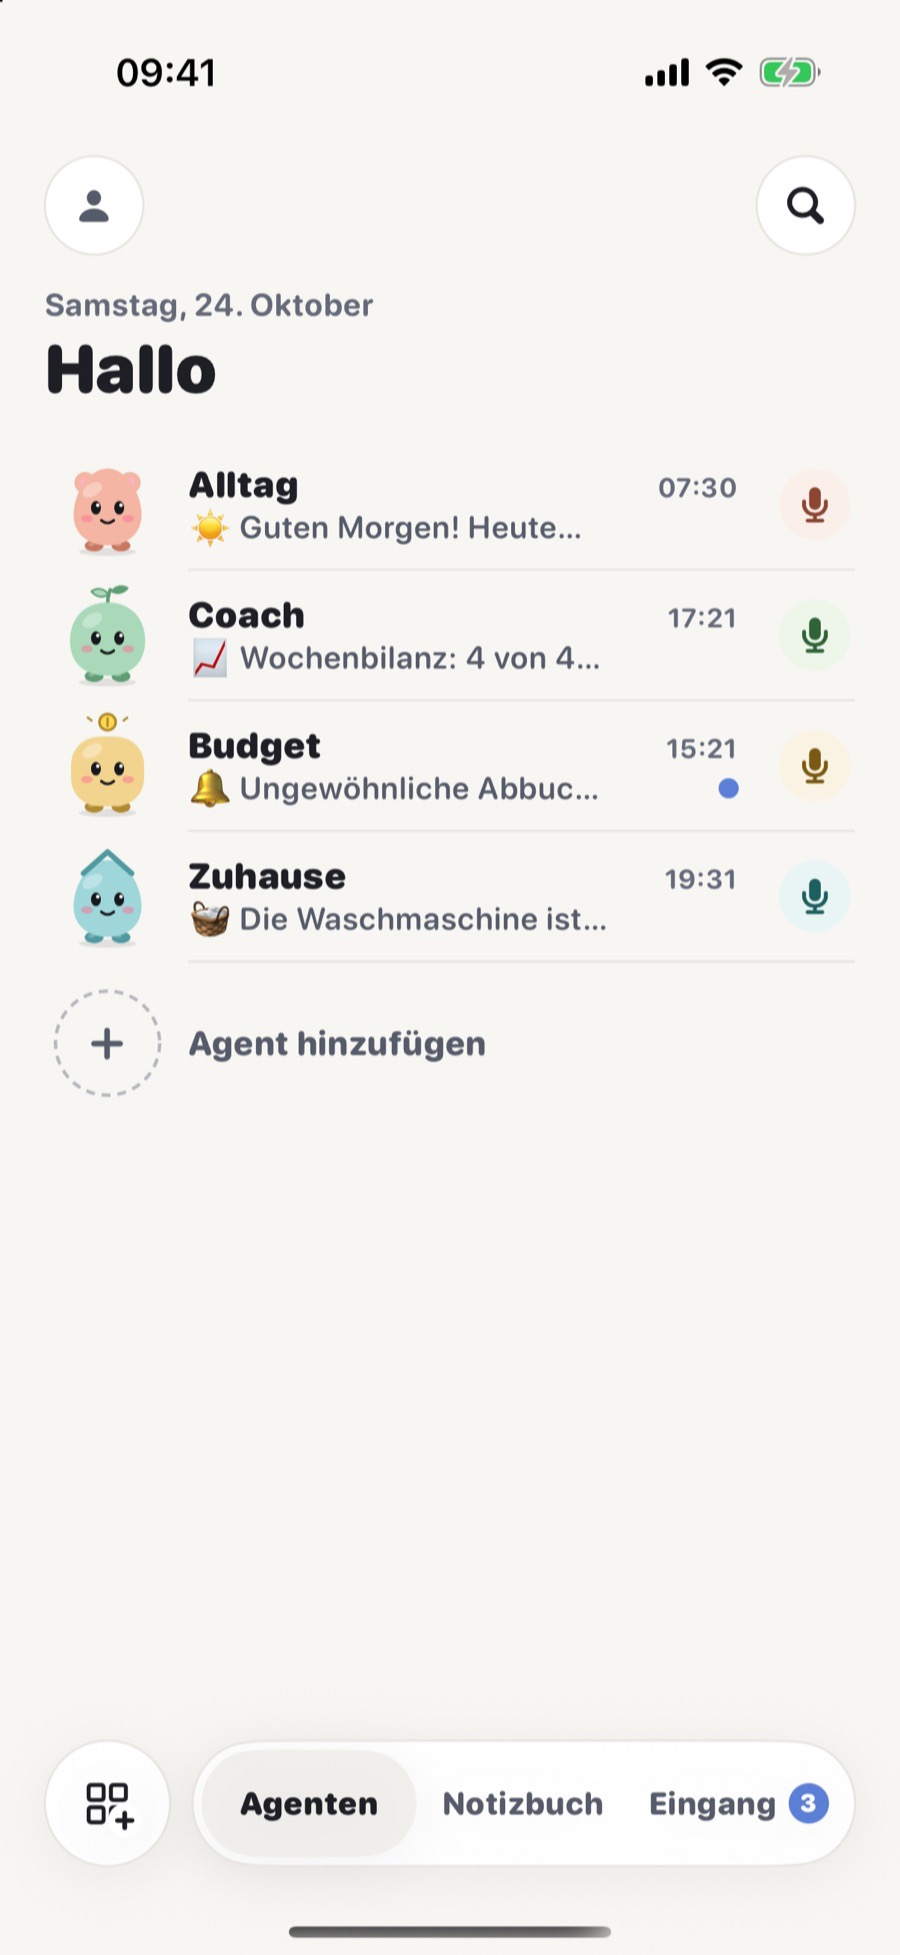
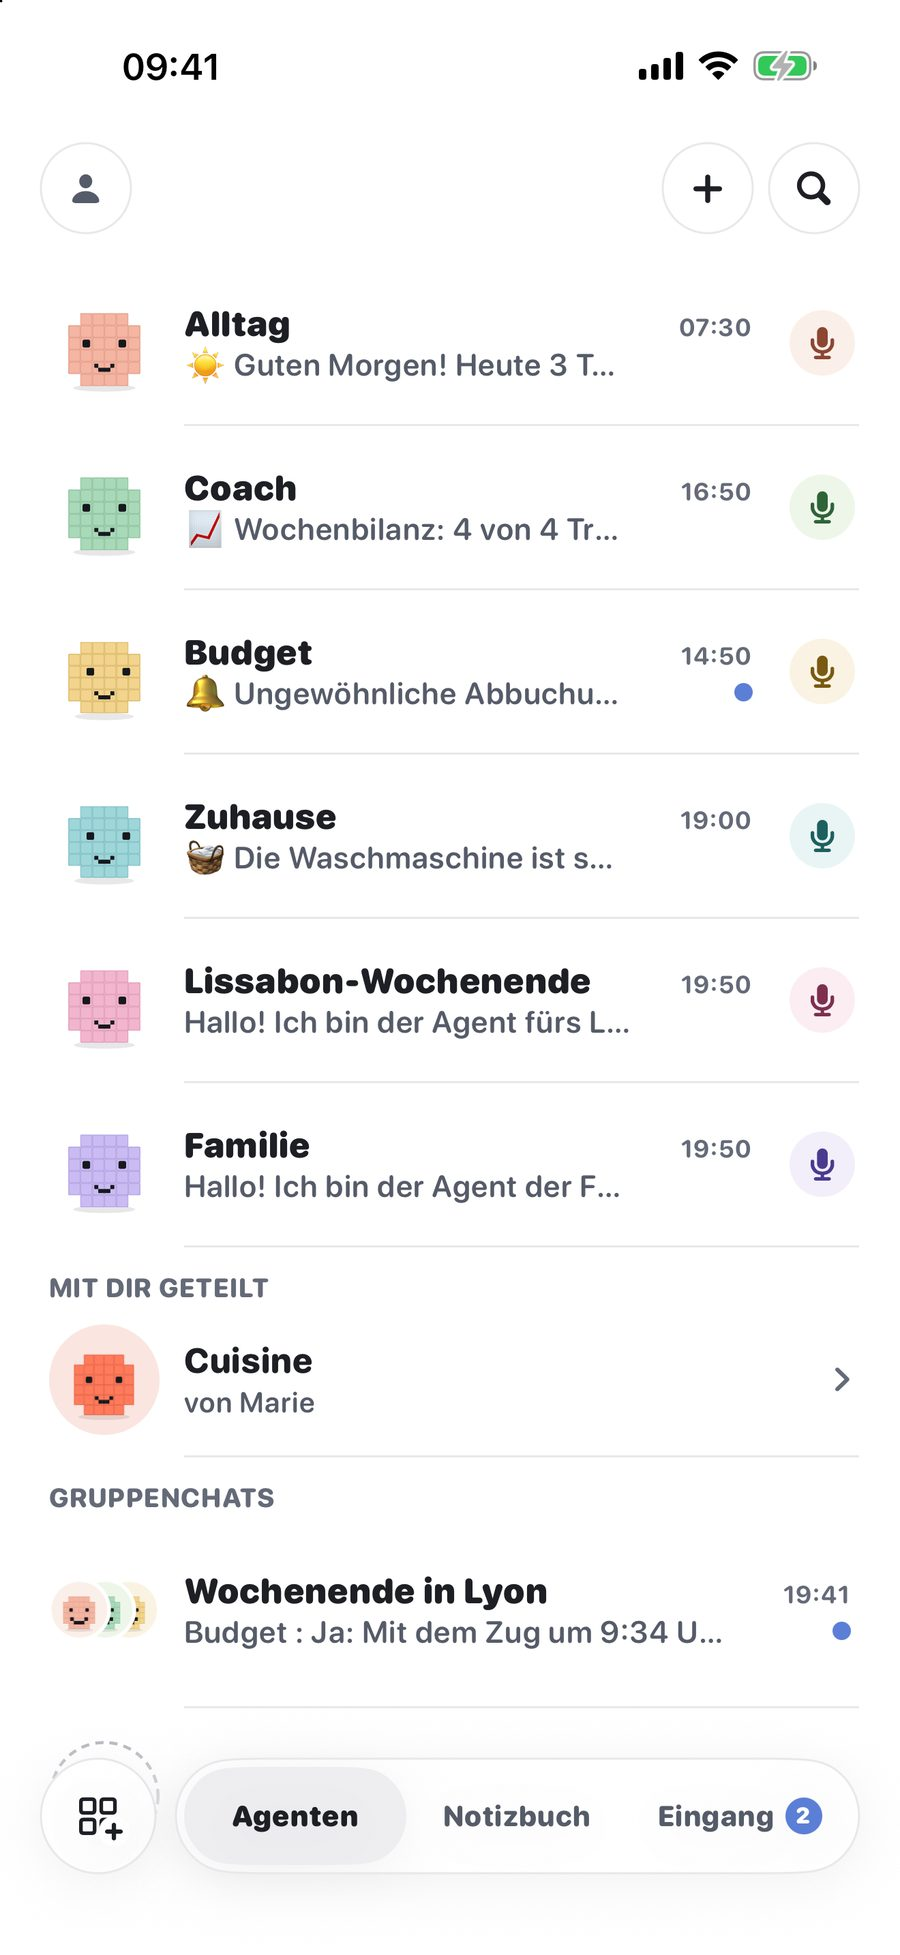
README: screenshots retaken from the app's new look (the 29/10 store captures: home, podcast conversation, approval, Live, in JPEG at the same sizes); old PNG screenshots removed, the unreferenced ones too; alt texts, the Bips' description and their tap reactions brought up to date

diff --git a/README.fr.md b/README.fr.md
@@ -1,7 +1,7 @@
 <p align="center"><a href="README.md">🇬🇧 English</a> · 🇫🇷 Français</p>
 
 <p align="center">
-  <img src="docs/bips.svg" alt="Les huit Bips de BipAgents, qui sautillent et clignent des yeux" width="100%">
+  <img src="docs/bips.svg" alt="Les huit Bips de BipAgents, qui flottent" width="100%">
 </p>
 
 <h1 align="center">BipAgents</h1>
@@ -13,23 +13,23 @@
 
 <p align="center">
   <a href="https://bipagents.com/fr/"><img alt="bipagents.com" src="https://img.shields.io/badge/bipagents.com-4F7CFF?style=for-the-badge"></a>
-  <a href="https://alexbob0.github.io/BipAgents/play/?lang=fr"><img alt="Joue avec les Bips" src="https://img.shields.io/badge/%F0%9F%8E%AE_Joue_avec_les_Bips-FF7B5C?style=for-the-badge"></a>
+  <a href="https://bipagents.com/play/?lang=fr"><img alt="Joue avec les Bips" src="https://img.shields.io/badge/%F0%9F%8E%AE_Joue_avec_les_Bips-FF7B5C?style=for-the-badge"></a>
   <a href="https://x.com/Bob_AI_Digger"><img alt="Suis @Bob_AI_Digger sur X" src="https://img.shields.io/badge/@Bob__AI__Digger-16181D?style=for-the-badge&logo=x&logoColor=white"></a>
   <a href="LICENSE"><img alt="Licence MIT" src="https://img.shields.io/badge/licence-MIT-3CC37A?style=for-the-badge"></a>
 </p>
 
 ---
 
-Chaque agent est un **Bip** : une petite mascotte avec sa couleur, sa forme, son humeur et **sa voix**. L'un veille
+Chaque agent est un **Bip** : une petite mascotte en pixels avec sa couleur, son humeur et **sa voix**. L'un veille
 sur ta journée, un autre sur ton sommeil, un autre sur ton budget… Tu leur écris, tu leur parles, ou tu les appelles
 en **Live**, mains libres. Ils lisent tes mails, tiennent ton agenda, naviguent sur le web dans un vrai navigateur que
 tu peux regarder, et **te demandent avant d'agir**.
 
 <p align="center">
-  <img src="site/src/bipagents/shots/home-fr.jpg" width="24%" alt="Accueil : une carte par agent, et l'onglet Carnet">
-  <img src="docs/screenshots/fr/conversation.png" width="24%" alt="Conversation : outils, liens avec favicons, réponse à écouter">
-  <img src="docs/screenshots/fr/approval-question.png" width="24%" alt="Demande d'accord et question de l'agent">
-  <img src="docs/screenshots/fr/live.png" width="24%" alt="Live : conversation vocale mains libres">
+  <img src="site/src/bipagents/shots/home-fr.jpg" width="24%" alt="Accueil : une carte par agent, les agents partagés et les discussions de groupe">
+  <img src="docs/screenshots/fr/conversation.jpg" width="24%" alt="Conversation : un point du matin en podcast, réponses à écouter">
+  <img src="docs/screenshots/fr/approval-question.jpg" width="24%" alt="Demande d'accord de l'agent">
+  <img src="docs/screenshots/fr/live.jpg" width="24%" alt="Live : conversation vocale mains libres">
 </p>
 
 ## Deux façons d'utiliser BipAgents
@@ -113,10 +113,10 @@ autre machine. Tout est dans le [guide de l'installateur](installer/README.fr.md
 
 ## 🎮 Joue avec les Bips
 
-Dans l'app (et [**dans ton navigateur**](https://alexbob0.github.io/BipAgents/play/?lang=fr)), ils réagissent : un
-toucher pour un saut, frotter pour les chatouiller, caresser lentement pour des cœurs, un appui long pour un
-**Boing !**, trop les embêter et ils boudent. Chaque réaction est babillée dans leur « Animalese », synthétisé à la
-volée, sans modèle ni réseau.
+Dans l'app (et [**dans ton navigateur**](https://bipagents.com/play/?lang=fr)), ils réagissent quand tu les
+touches : un saut, un clin d'œil, un fou rire, un air surpris, un **Boing !**. Ils montrent ce qu'ils font (ils
+réfléchissent, parlent, travaillent, dorment) et se déguisent pour les fêtes. Chaque réaction est babillée dans leur
+« Animalese », synthétisé à la volée, sans modèle ni réseau.
 
 ## 🧩 Comment ça marche
 

diff --git a/README.md b/README.md
@@ -1,7 +1,7 @@
 <p align="center">🇬🇧 English · <a href="README.fr.md">🇫🇷 Français</a></p>
 
 <p align="center">
-  <img src="docs/bips.svg" alt="The eight BipAgents Bips, bouncing and blinking" width="100%">
+  <img src="docs/bips.svg" alt="The eight BipAgents Bips, bobbing" width="100%">
 </p>
 
 <h1 align="center">BipAgents</h1>
@@ -13,22 +13,22 @@
 
 <p align="center">
   <a href="https://bipagents.com"><img alt="bipagents.com" src="https://img.shields.io/badge/bipagents.com-4F7CFF?style=for-the-badge"></a>
-  <a href="https://alexbob0.github.io/BipAgents/play/"><img alt="Play with the Bips" src="https://img.shields.io/badge/%F0%9F%8E%AE_Play_with_the_Bips-FF7B5C?style=for-the-badge"></a>
+  <a href="https://bipagents.com/play/"><img alt="Play with the Bips" src="https://img.shields.io/badge/%F0%9F%8E%AE_Play_with_the_Bips-FF7B5C?style=for-the-badge"></a>
   <a href="https://x.com/Bob_AI_Digger"><img alt="Follow @Bob_AI_Digger on X" src="https://img.shields.io/badge/@Bob__AI__Digger-16181D?style=for-the-badge&logo=x&logoColor=white"></a>
   <a href="LICENSE"><img alt="MIT license" src="https://img.shields.io/badge/license-MIT-3CC37A?style=for-the-badge"></a>
 </p>
 
 ---
 
-Every agent is a **Bip**: a little mascot with its own color, shape, mood and **voice**. One looks after your day,
+Every agent is a **Bip**: a little pixel mascot with its own color, mood and **voice**. One looks after your day,
 another your sleep, another your budget… Text them, talk to them, or call them in **Live**, hands-free. They read
 your mail, keep your calendar, browse the web in a real browser you can watch, and **ask you before they act**.
 
 <p align="center">
-  <img src="site/src/bipagents/shots/home-en.jpg" width="24%" alt="Home: one card per agent, and the Notebook tab">
-  <img src="docs/screenshots/conversation.png" width="24%" alt="Conversation: tools, links with favicons, a reply to listen to">
-  <img src="docs/screenshots/approval-question.png" width="24%" alt="An approval request and a question from the agent">
-  <img src="docs/screenshots/live.png" width="24%" alt="Live: hands-free voice conversation">
+  <img src="site/src/bipagents/shots/home-en.jpg" width="24%" alt="Home: one card per agent, shared agents and group chats">
+  <img src="docs/screenshots/conversation.jpg" width="24%" alt="Conversation: a morning podcast made on request, replies to listen to">
+  <img src="docs/screenshots/approval-question.jpg" width="24%" alt="An approval request from the agent">
+  <img src="docs/screenshots/live.jpg" width="24%" alt="Live: hands-free voice conversation">
 </p>
 
 ## Two ways to use BipAgents
@@ -103,9 +103,10 @@ machine. All of it in the [installer's guide](installer/README.md); by hand: [se
 
 ## 🎮 Play with the Bips
 
-In the app (and [**in your browser**](https://alexbob0.github.io/BipAgents/play/)), they react: tap for a hop, rub
-for a tickle, stroke slowly for hearts, long-press for a **Boing!**, pester them and they sulk. Every reaction is
-babbled in their own « Animalese », synthesized on the fly, with no model and no network.
+In the app (and [**in your browser**](https://bipagents.com/play/)), they react when you tap them: a hop, a wink, a
+giggle, a surprised look, a **Boing!**. They show what they are doing (thinking, talking, working, asleep) and dress
+up for the holidays. Every reaction is babbled in their own « Animalese », synthesized on the fly, with no model and
+no network.
 
 ## 🧩 How it works
 
